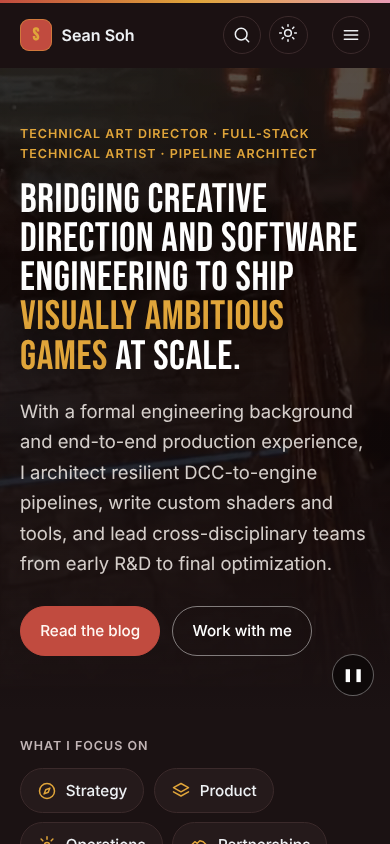
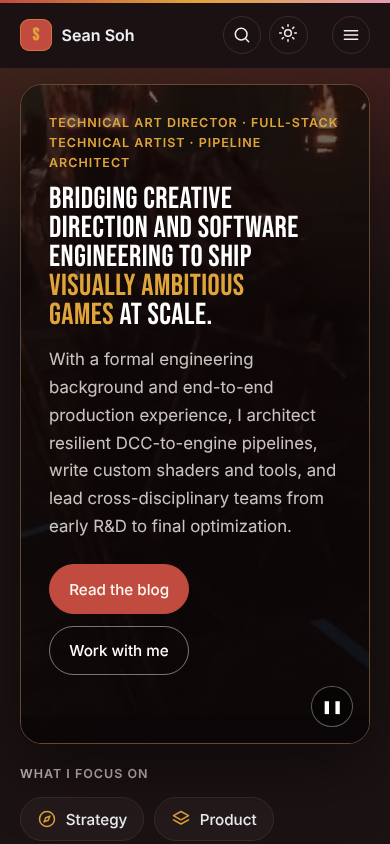
Hero as a contained card with the reel behind the text; align rails
- Hero becomes a rounded card inside the content width, with the showreel
  as its background and a left-to-right shade behind the text.
- Headline cut to 60% of its size.
- Home rails now sit inside the content width, aligned with the hero and
  section headings.
- Stylesheet and script URLs get a build-time version so browsers stop
  serving a stale copy after a deploy.

Claude-Session: https://claude.ai/code/session_019aZhk6nqUmGebBMtB7amnR

diff --git a/assets/style.css b/assets/style.css
@@ -143,7 +143,7 @@ p { margin: 0 0 1em; }
     radial-gradient(60rem 28rem at 85% -10%, var(--glow), transparent 70%),
     radial-gradient(40rem 22rem at 0% 0%, rgb(224 165 58 / .08), transparent 70%);
 }
-.display { font-size: clamp(2.55rem, 1.35rem + 5vw, 5.75rem); line-height: .95; max-width: 22ch; text-wrap: balance; margin: .4em 0 .5em; }
+.display { font-size: clamp(1.9rem, .8rem + 3vw, 3.45rem); line-height: .95; max-width: 22ch; text-wrap: balance; margin: .4em 0 .5em; }
 .display em { font-style: normal; color: var(--link); }
 .actions { display: flex; flex-wrap: wrap; gap: .75rem; margin-top: 1.75rem; }
 
@@ -164,11 +164,11 @@ p { margin: 0 0 1em; }
 .focus-list .icon { color: var(--link); }
 
 /* Card rails (horizontal scroll with snap) ------------------------------ */
+/* Rails sit inside .wrap, so they line up with the hero card and section headings. */
 .rail {
-  --inset: max(var(--gutter), calc((100vw - var(--max)) / 2 + var(--gutter)));
-  display: grid; grid-auto-flow: column; grid-auto-columns: min(20rem, 82vw); gap: 1.25rem;
-  overflow-x: auto; scroll-snap-type: x mandatory; scroll-padding-inline: var(--inset);
-  padding: .25rem var(--inset) 1.25rem; scrollbar-width: thin;
+  display: grid; grid-auto-flow: column; grid-auto-columns: min(20rem, 82%); gap: 1.25rem;
+  overflow-x: auto; scroll-snap-type: x mandatory;
+  padding: .25rem 0 1.25rem; scrollbar-width: thin;
 }
 .rail > * { scroll-snap-align: start; }
 .rail.is-auto { scroll-snap-type: none; }
@@ -334,32 +334,38 @@ p { margin: 0 0 1em; }
 .cover-poster .cover-fit { position: relative; object-fit: contain; }
 .project-hero.is-poster img { width: auto; max-width: 100%; max-height: 38rem; margin: 0 auto; }
 
-/* Showreel playing behind the home hero */
-.hero-reel { position: relative; overflow: hidden; isolation: isolate; background: #0d0809; color: #f4efea;
-  padding: clamp(3.5rem, 7vw, 6rem) 0 clamp(3.5rem, 6vw, 5rem); }
+/* Home hero: a rounded card inside the content width, with the showreel playing behind the text */
+.hero { padding: clamp(1rem, 2.5vw, 1.75rem) 0 clamp(1.5rem, 3vw, 2.5rem); }
+.hero-card {
+  position: relative; overflow: hidden; isolation: isolate;
+  display: flex; align-items: center; min-height: clamp(26rem, 46vw, 36rem);
+  padding: clamp(1.75rem, 4vw, 3.25rem);
+  border-radius: calc(var(--radius) + 8px); border: 1px solid color-mix(in srgb, var(--gold) 25%, var(--border));
+  background: #0d0809; color: #f4efea; box-shadow: 0 24px 70px rgb(0 0 0 / .45);
+}
 .hero-video { position: absolute; inset: 0; width: 100%; height: 100%; object-fit: cover; z-index: -2; }
-/* Darker behind the text (left), lighter on the right so the reel still shows, fading into the page below. */
+/* Dim the left side, where the text sits, and let the reel show on the right. */
 .hero-shade { position: absolute; inset: 0; z-index: -1; pointer-events: none;
-  background:
-    linear-gradient(90deg, rgb(13 8 9 / .88) 0%, rgb(13 8 9 / .72) 45%, rgb(13 8 9 / .25) 100%),
-    linear-gradient(180deg, rgb(13 8 9 / .25) 0%, transparent 30%, transparent 70%, var(--bg) 100%); }
-.hero-reel .wrap { position: relative; }
-.hero-reel .display { color: #fff; text-shadow: 0 2px 24px rgb(0 0 0 / .45); }
-.hero-reel .eyebrow, .hero-reel .display em { color: var(--gold); }
-.hero-reel .lede { color: rgb(244 239 234 / .86); }
-.hero-reel .button.ghost { color: #fff; border-color: rgb(255 255 255 / .45); }
-.hero-reel .button.ghost:hover { border-color: var(--gold); color: var(--gold); }
+  background: linear-gradient(90deg, rgb(10 6 7 / .94) 0%, rgb(10 6 7 / .86) 30%, rgb(10 6 7 / .5) 58%, rgb(10 6 7 / .12) 85%); }
+.hero-content { position: relative; max-width: 40rem; }
+.hero-card .eyebrow { margin-top: 0; }
+.hero-card .display { color: #fff; max-width: 21ch; margin: .35em 0 .55em; }
+.hero-card .eyebrow, .hero-card .display em { color: var(--gold); }
+.hero-card .lede { color: rgb(244 239 234 / .82); font-size: 1.05rem; }
+.hero-card .actions { margin-top: 1.5rem; }
+.hero-card .button.ghost { color: #fff; border-color: rgb(255 255 255 / .45); }
+.hero-card .button.ghost:hover { border-color: var(--gold); color: var(--gold); }
 .reel-toggle {
-  position: absolute; right: clamp(1rem, 3vw, 2rem); bottom: clamp(1rem, 3vw, 2rem); z-index: 1; width: 2.6rem; height: 2.6rem; border-radius: 999px;
+  position: absolute; right: 1rem; bottom: 1rem; z-index: 1; width: 2.6rem; height: 2.6rem; border-radius: 999px;
   border: 1px solid rgb(255 255 255 / .35); background: rgb(0 0 0 / .45); color: #fff; cursor: pointer;
   font-size: .8rem; display: grid; place-items: center; backdrop-filter: blur(6px);
 }
 .reel-toggle:hover { border-color: var(--gold); color: var(--gold); }
 .reel .reel-play, .reel.is-paused .reel-pause { display: none; }
 .reel.is-paused .reel-play { display: inline; }
-.hero-reel + .focus { padding-top: clamp(1.75rem, 3.5vw, 2.75rem); }
 @media (max-width: 700px) {
-  .hero-shade { background: linear-gradient(180deg, rgb(13 8 9 / .7) 0%, rgb(13 8 9 / .8) 60%, var(--bg) 100%); }
+  .hero-card { align-items: flex-end; padding-bottom: 4.25rem; }
+  .hero-shade { background: linear-gradient(180deg, rgb(10 6 7 / .55) 0%, rgb(10 6 7 / .85) 45%, rgb(10 6 7 / .94) 100%); }
 }
 
 /* Projects page: large two-column project cards */

diff --git a/index.html b/index.html
@@ -2,23 +2,27 @@
 layout: default
 title: Home
 ---
-<section class="hero hero-reel reel">
-  <video class="hero-video" autoplay muted loop playsinline preload="metadata" aria-hidden="true"
-         poster="{{ '/assets/video/showreel-poster.jpg' | relative_url }}" data-reel>
-    <source src="{{ '/assets/video/showreel.webm' | relative_url }}" type="video/webm">
-    <source src="{{ '/assets/video/showreel.mp4' | relative_url }}" type="video/mp4">
-  </video>
-  <div class="hero-shade" aria-hidden="true"></div>
-  <button class="reel-toggle" type="button" data-reel-toggle aria-label="Pause showreel">
-    <span class="reel-pause" aria-hidden="true">❚❚</span><span class="reel-play" aria-hidden="true">▶</span>
-  </button>
+<section class="hero">
   <div class="wrap">
-    <p class="eyebrow">{{ site.author.role_line }}</p>
-    <h1 class="display">Bridging creative direction and software engineering to ship <em>visually ambitious games</em> at scale.</h1>
-    <p class="lede">With a formal engineering background and end-to-end production experience, I architect resilient DCC-to-engine pipelines, write custom shaders and tools, and lead cross-disciplinary teams from early R&amp;D to final optimization.</p>
-    <div class="actions">
-      <a class="button" href="{{ '/blog/' | relative_url }}">Read the blog</a>
-      <a class="button ghost" href="{{ '/work-with-me/' | relative_url }}">Work with me</a>
+    <div class="hero-card reel">
+      <video class="hero-video" autoplay muted loop playsinline preload="metadata" aria-hidden="true"
+             poster="{{ '/assets/video/showreel-poster.jpg' | relative_url }}" data-reel>
+        <source src="{{ '/assets/video/showreel.webm' | relative_url }}" type="video/webm">
+        <source src="{{ '/assets/video/showreel.mp4' | relative_url }}" type="video/mp4">
+      </video>
+      <div class="hero-shade" aria-hidden="true"></div>
+      <button class="reel-toggle" type="button" data-reel-toggle aria-label="Pause showreel">
+        <span class="reel-pause" aria-hidden="true">❚❚</span><span class="reel-play" aria-hidden="true">▶</span>
+      </button>
+      <div class="hero-content">
+        <p class="eyebrow">{{ site.author.role_line }}</p>
+        <h1 class="display">Bridging creative direction and software engineering to ship <em>visually ambitious games</em> at scale.</h1>
+        <p class="lede">With a formal engineering background and end-to-end production experience, I architect resilient DCC-to-engine pipelines, write custom shaders and tools, and lead cross-disciplinary teams from early R&amp;D to final optimization.</p>
+        <div class="actions">
+          <a class="button" href="{{ '/blog/' | relative_url }}">Read the blog</a>
+          <a class="button ghost" href="{{ '/work-with-me/' | relative_url }}">Work with me</a>
+        </div>
+      </div>
     </div>
   </div>
 </section>

diff --git a/_layouts/default.html b/_layouts/default.html
@@ -19,7 +19,7 @@
   <link rel="preconnect" href="https://fonts.googleapis.com">
   <link rel="preconnect" href="https://fonts.gstatic.com" crossorigin>
   <link href="https://fonts.googleapis.com/css2?family=Bebas+Neue&family=Inter:wght@400;500;600&display=swap" rel="stylesheet">
-  <link rel="stylesheet" href="{{ '/assets/style.css' | relative_url }}">
+  <link rel="stylesheet" href="{{ '/assets/style.css' | relative_url }}?v={{ site.time | date: '%s' }}">
   <script>
     // Set the theme before paint so there is no flash.
     try { var t = localStorage.getItem('theme'); if (t) document.documentElement.dataset.theme = t; } catch (e) {}
@@ -32,6 +32,6 @@
   </main>
   {% include footer.html %}
   <script>window.SEARCH_INDEX = "{{ '/search.json' | relative_url }}";</script>
-  <script src="{{ '/assets/js/site.js' | relative_url }}" defer></script>
+  <script src="{{ '/assets/js/site.js' | relative_url }}?v={{ site.time | date: '%s' }}" defer></script>
 </body>
 </html>

diff --git a/_includes/rail.html b/_includes/rail.html
@@ -15,10 +15,10 @@
         <a class="see-all" href="{{ include.all_url | relative_url }}">See all</a>
       </div>
     </div>
-  </div>
-  <div class="rail" data-rail{% if include.autoscroll %} data-autoscroll{% endif %} tabindex="0" aria-label="{{ include.title }}">
+    <div class="rail" data-rail{% if include.autoscroll %} data-autoscroll{% endif %} tabindex="0" aria-label="{{ include.title }}">
     {%- for item in include.items -%}
       {% include card.html item=item kind=include.kind %}
     {%- endfor -%}
+    </div>
   </div>
 </section>
